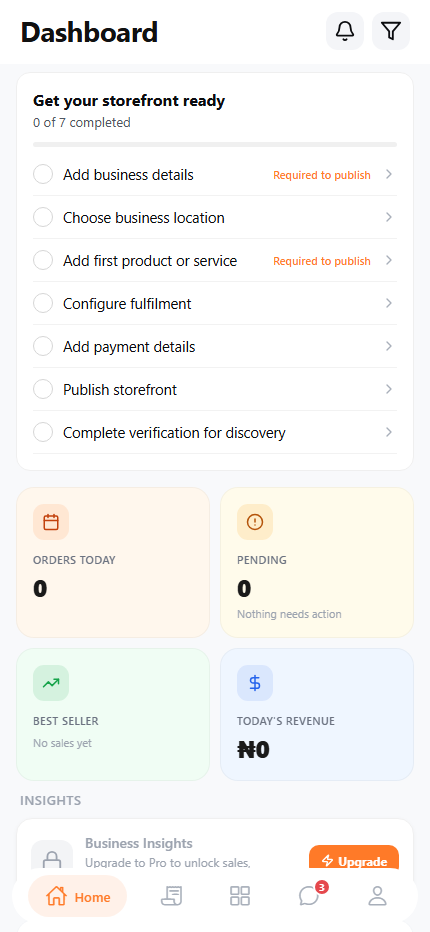
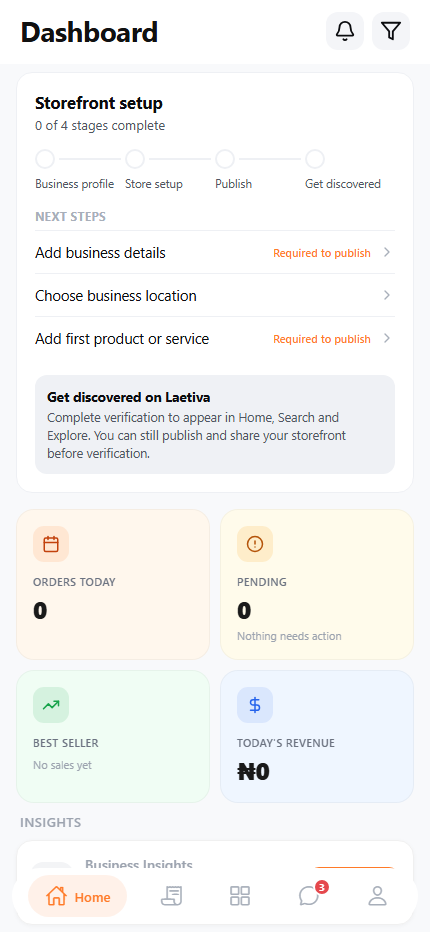
Replace flat 7-row setup checklist with a four-stage stepper
Review feedback: seven equally-weighted rows made an ordinary incomplete
setup look like a long list of problems, gave no sense of overall progress,
and repeated the verification requirement that the dashboard banner was
already showing.

The setup block is now:
- Four grouped stages (Business profile, Store setup, Publish, Get
  discovered) with a compact rail and "0 of 4 stages complete", instead of
  "0 of 7 completed" across seven rows.
- Only the next three outstanding actions listed, so the vendor is guided
  forward rather than shown the entire backlog at once.
- "Required to publish" shown only on steps that genuinely block publishing,
  so optional setup no longer reads as mandatory.
- Verification explained inside its own final stage rather than as a second
  dashboard banner, which is what caused the duplication.

A stage only counts as complete when every step inside it is complete, so
partial progress never reads as finished. All completion state still comes
from getVendorOnboardingStatus, never local storage.

Evidence screenshots refreshed against a real newly-registered vendor.

Operational note for reviewers: Metro's watcher on Windows does not
reliably pick up component edits, so run `npx expo start --web --clear`
when first checking this branch out or the UI may render from a stale
bundle.

diff --git a/expo/components/VendorSetupChecklist.tsx b/expo/components/VendorSetupChecklist.tsx
@@ -1,4 +1,4 @@
-import React from 'react';
+import React, { useMemo } from 'react';
 import { View, Text, StyleSheet, TouchableOpacity, ActivityIndicator } from 'react-native';
 import { useRouter } from 'expo-router';
 import { Check, ChevronRight, AlertCircle } from 'lucide-react-native';
@@ -6,27 +6,73 @@ import { Colors } from '@/constants/colors';
 import {
   useVendorOnboarding,
   ONBOARDING_STEP_ROUTES,
+  type OnboardingStepId,
 } from '@/contexts/VendorOnboardingContext';
 
 /**
- * Phase 1 — the storefront setup checklist shown on a new vendor's dashboard.
+ * Phase 1 — storefront setup progress for a new vendor.
  *
- * A vendor can now reach the dashboard before their business profile exists,
- * so without this the first thing they'd see is an empty screen with no
- * indication of what to do. Progress is read from real stored values, never a
- * hardcoded count, and the whole block disappears once setup is finished.
+ * Deliberately a four-stage stepper rather than a flat list of every step.
+ * Seven equally-weighted rows made an ordinary incomplete setup look like a
+ * long list of problems, and gave no sense of how far along the vendor was.
+ * Grouping into stages means the dashboard shows "2 of 4 stages" and only the
+ * handful of actions that are actually next, instead of everything at once.
+ *
+ * All completion state comes from the backend (getVendorOnboardingStatus) —
+ * never local storage — so a step can only look done when it really is.
  */
+
+interface SetupStage {
+  id: string;
+  title: string;
+  /** Backend step ids that roll up into this stage. */
+  stepIds: OnboardingStepId[];
+}
+
+const SETUP_STAGES: SetupStage[] = [
+  { id: 'business_profile', title: 'Business profile', stepIds: ['business_details', 'business_location'] },
+  { id: 'store_setup', title: 'Store setup', stepIds: ['first_catalog_item', 'fulfillment', 'payment_method'] },
+  { id: 'publish', title: 'Publish', stepIds: ['publish_storefront'] },
+  { id: 'get_discovered', title: 'Get discovered', stepIds: ['verification'] },
+];
+
+/** How many outstanding actions to surface at once. Showing every remaining
+ * step is what made the original list overwhelming. */
+const MAX_VISIBLE_NEXT_ACTIONS = 3;
+
 export default function VendorSetupChecklist() {
   const router = useRouter();
-  const {
-    steps,
-    completedCount,
-    totalCount,
-    isSetupComplete,
-    isLoading,
-    error,
-    refresh,
-  } = useVendorOnboarding();
+  const { steps, isSetupComplete, isLoading, error, refresh } = useVendorOnboarding();
+
+  const stageState = useMemo(() => {
+    const byId = new Map(steps.map((s) => [s.id, s]));
+    return SETUP_STAGES.map((stage) => {
+      const stageSteps = stage.stepIds.map((id) => byId.get(id)).filter((s): s is NonNullable<typeof s> => !!s);
+      return {
+        ...stage,
+        steps: stageSteps,
+        // A stage counts as complete only when every step inside it is done,
+        // so partial progress never reads as finished.
+        complete: stageSteps.length > 0 && stageSteps.every((s) => s.complete),
+      };
+    });
+  }, [steps]);
+
+  const completedStages = stageState.filter((s) => s.complete).length;
+
+  /** The next few outstanding actions, in stage order, so the vendor is guided
+   * forward rather than shown the whole backlog. */
+  const nextActions = useMemo(() => {
+    const out: { id: OnboardingStepId; label: string; blocksPublication: boolean }[] = [];
+    for (const stage of stageState) {
+      for (const step of stage.steps) {
+        if (!step.complete && out.length < MAX_VISIBLE_NEXT_ACTIONS) {
+          out.push({ id: step.id, label: step.label, blocksPublication: step.blocksPublication });
+        }
+      }
+    }
+    return out;
+  }, [stageState]);
 
   if (isSetupComplete) return null;
 
@@ -54,46 +100,72 @@ export default function VendorSetupChecklist() {
 
   if (steps.length === 0) return null;
 
-  const progressRatio = totalCount > 0 ? completedCount / totalCount : 0;
-
   return (
     <View style={styles.card} testID="setup-checklist">
-      <Text style={styles.title}>Get your storefront ready</Text>
+      <Text style={styles.title}>Storefront setup</Text>
       <Text style={styles.subtitle}>
-        {completedCount} of {totalCount} completed
+        {completedStages} of {SETUP_STAGES.length} stages complete
       </Text>
 
-      <View style={styles.progressTrack}>
-        <View style={[styles.progressFill, { width: `${Math.round(progressRatio * 100)}%` }]} />
+      {/* Stage rail — compact enough for a phone at four items, which is why
+          the steps are grouped rather than listed individually. */}
+      <View style={styles.rail} testID="setup-stage-rail">
+        {stageState.map((stage, index) => (
+          <View key={stage.id} style={styles.railItem}>
+            <View style={styles.railTop}>
+              <View style={[styles.railDot, stage.complete && styles.railDotDone]}>
+                {stage.complete && <Check size={11} color="#FFFFFF" strokeWidth={3} />}
+              </View>
+              {index < stageState.length - 1 && (
+                <View style={[styles.railLine, stage.complete && styles.railLineDone]} />
+              )}
+            </View>
+            <Text
+              style={[styles.railLabel, stage.complete && styles.railLabelDone]}
+              numberOfLines={2}
+              testID={`setup-stage-${stage.id}`}
+            >
+              {stage.title}
+            </Text>
+          </View>
+        ))}
       </View>
 
-      {steps.map((step) => (
-        <TouchableOpacity
-          key={step.id}
-          style={styles.stepRow}
-          activeOpacity={step.complete ? 1 : 0.7}
-          disabled={step.complete}
-          onPress={() => router.push(ONBOARDING_STEP_ROUTES[step.id] as never)}
-          testID={`setup-step-${step.id}`}
-        >
-          <View style={[styles.checkCircle, step.complete && styles.checkCircleDone]}>
-            {step.complete && <Check size={13} color="#FFFFFF" strokeWidth={3} />}
-          </View>
+      {nextActions.length > 0 && (
+        <View style={styles.nextBlock}>
+          <Text style={styles.nextHeading}>Next steps</Text>
+          {nextActions.map((action) => (
+            <TouchableOpacity
+              key={action.id}
+              style={styles.actionRow}
+              activeOpacity={0.7}
+              onPress={() => router.push(ONBOARDING_STEP_ROUTES[action.id] as never)}
+              testID={`setup-step-${action.id}`}
+            >
+              <Text style={styles.actionLabel} numberOfLines={1}>{action.label}</Text>
+              {/* Only the steps that genuinely block publishing are marked, so
+                  the optional ones don't read as mandatory. */}
+              {action.blocksPublication && (
+                <Text style={styles.requiredTag}>Required to publish</Text>
+              )}
+              <ChevronRight size={16} color={Colors.textMuted} strokeWidth={2} />
+            </TouchableOpacity>
+          ))}
+        </View>
+      )}
 
-          <Text style={[styles.stepLabel, step.complete && styles.stepLabelDone]}>
-            {step.label}
+      {/* Verification is explained here, in the final stage, rather than as a
+          separate dashboard banner — otherwise the same requirement appears
+          twice on one screen. */}
+      {!stageState[3]?.complete && (
+        <View style={styles.discoveryNote}>
+          <Text style={styles.discoveryTitle}>Get discovered on the platform</Text>
+          <Text style={styles.discoveryBody}>
+            Complete verification to appear in Home, Search and Explore. You can still publish and
+            share your storefront before verification.
           </Text>
-
-          {/* Only steps that actually block going live are marked — otherwise
-              every row looks equally urgent and the label stops meaning
-              anything. */}
-          {!step.complete && step.blocksPublication && (
-            <Text style={styles.requiredTag}>Required to publish</Text>
-          )}
-
-          {!step.complete && <ChevronRight size={16} color={Colors.textMuted} strokeWidth={2} />}
-        </TouchableOpacity>
-      ))}
+        </View>
+      )}
     </View>
   );
 }
@@ -101,50 +173,64 @@ export default function VendorSetupChecklist() {
 const styles = StyleSheet.create({
   card: {
     backgroundColor: '#FFFFFF',
-    borderRadius: 14,
-    borderWidth: 1,
-    borderColor: '#EFEFEF',
-    padding: 16,
+    borderRadius: 16,
+    padding: 18,
     marginBottom: 16,
+    borderWidth: 1,
+    borderColor: Colors.border,
   },
-  title: { fontSize: 16, fontWeight: '700' as const, color: Colors.text },
+  title: { fontSize: 16.5, fontWeight: '700' as const, color: Colors.text },
   subtitle: { fontSize: 13, color: Colors.textSecondary, marginTop: 3 },
-  progressTrack: {
-    height: 5,
-    borderRadius: 3,
-    backgroundColor: '#F0F0F0',
-    marginTop: 12,
-    marginBottom: 6,
-    overflow: 'hidden' as const,
-  },
-  progressFill: { height: 5, borderRadius: 3, backgroundColor: Colors.primary },
-  stepRow: {
-    flexDirection: 'row' as const,
-    alignItems: 'center' as const,
-    gap: 10,
-    paddingVertical: 11,
-    borderBottomWidth: StyleSheet.hairlineWidth,
-    borderBottomColor: '#F2F2F2',
-  },
-  checkCircle: {
+
+  rail: { flexDirection: 'row' as const, marginTop: 16 },
+  railItem: { flex: 1 },
+  railTop: { flexDirection: 'row' as const, alignItems: 'center' as const },
+  railDot: {
     width: 20,
     height: 20,
     borderRadius: 10,
-    borderWidth: 1.5,
-    borderColor: '#D6D6D6',
+    borderWidth: 2,
+    borderColor: Colors.border,
+    backgroundColor: '#FFFFFF',
     alignItems: 'center' as const,
     justifyContent: 'center' as const,
   },
-  checkCircleDone: { backgroundColor: Colors.primary, borderColor: Colors.primary },
-  stepLabel: { flex: 1, fontSize: 14.5, color: Colors.text },
-  stepLabelDone: { color: Colors.textMuted, textDecorationLine: 'line-through' as const },
-  requiredTag: { fontSize: 11, fontWeight: '600' as const, color: Colors.primary },
-  errorRow: { flexDirection: 'row' as const, alignItems: 'center' as const, gap: 8 },
-  errorText: { flex: 1, fontSize: 13.5, color: Colors.error },
-  retryText: {
-    marginTop: 10,
-    fontSize: 14,
-    fontWeight: '600' as const,
-    color: Colors.primary,
+  railDotDone: { backgroundColor: Colors.primary, borderColor: Colors.primary },
+  railLine: { flex: 1, height: 2, backgroundColor: Colors.border, marginHorizontal: 4 },
+  railLineDone: { backgroundColor: Colors.primary },
+  railLabel: { fontSize: 11.5, color: Colors.textSecondary, marginTop: 7, paddingRight: 8, lineHeight: 15 },
+  railLabelDone: { color: Colors.text, fontWeight: '600' as const },
+
+  nextBlock: { marginTop: 18 },
+  nextHeading: {
+    fontSize: 11.5,
+    fontWeight: '700' as const,
+    color: Colors.textMuted,
+    letterSpacing: 0.5,
+    textTransform: 'uppercase' as const,
+    marginBottom: 6,
   },
+  actionRow: {
+    flexDirection: 'row' as const,
+    alignItems: 'center' as const,
+    gap: 8,
+    paddingVertical: 11,
+    borderTopWidth: StyleSheet.hairlineWidth,
+    borderTopColor: Colors.border,
+  },
+  actionLabel: { flex: 1, fontSize: 14.5, color: Colors.text },
+  requiredTag: { fontSize: 11, fontWeight: '600' as const, color: Colors.primary },
+
+  discoveryNote: {
+    marginTop: 16,
+    padding: 12,
+    borderRadius: 12,
+    backgroundColor: Colors.surfaceMuted ?? '#F8F9FA',
+  },
+  discoveryTitle: { fontSize: 13.5, fontWeight: '700' as const, color: Colors.text },
+  discoveryBody: { fontSize: 12.5, lineHeight: 18, color: Colors.textSecondary, marginTop: 3 },
+
+  errorRow: { flexDirection: 'row' as const, alignItems: 'center' as const, gap: 8 },
+  errorText: { flex: 1, fontSize: 13.5, color: Colors.textSecondary },
+  retryText: { fontSize: 13.5, fontWeight: '600' as const, color: Colors.primary, marginTop: 8 },
 });
